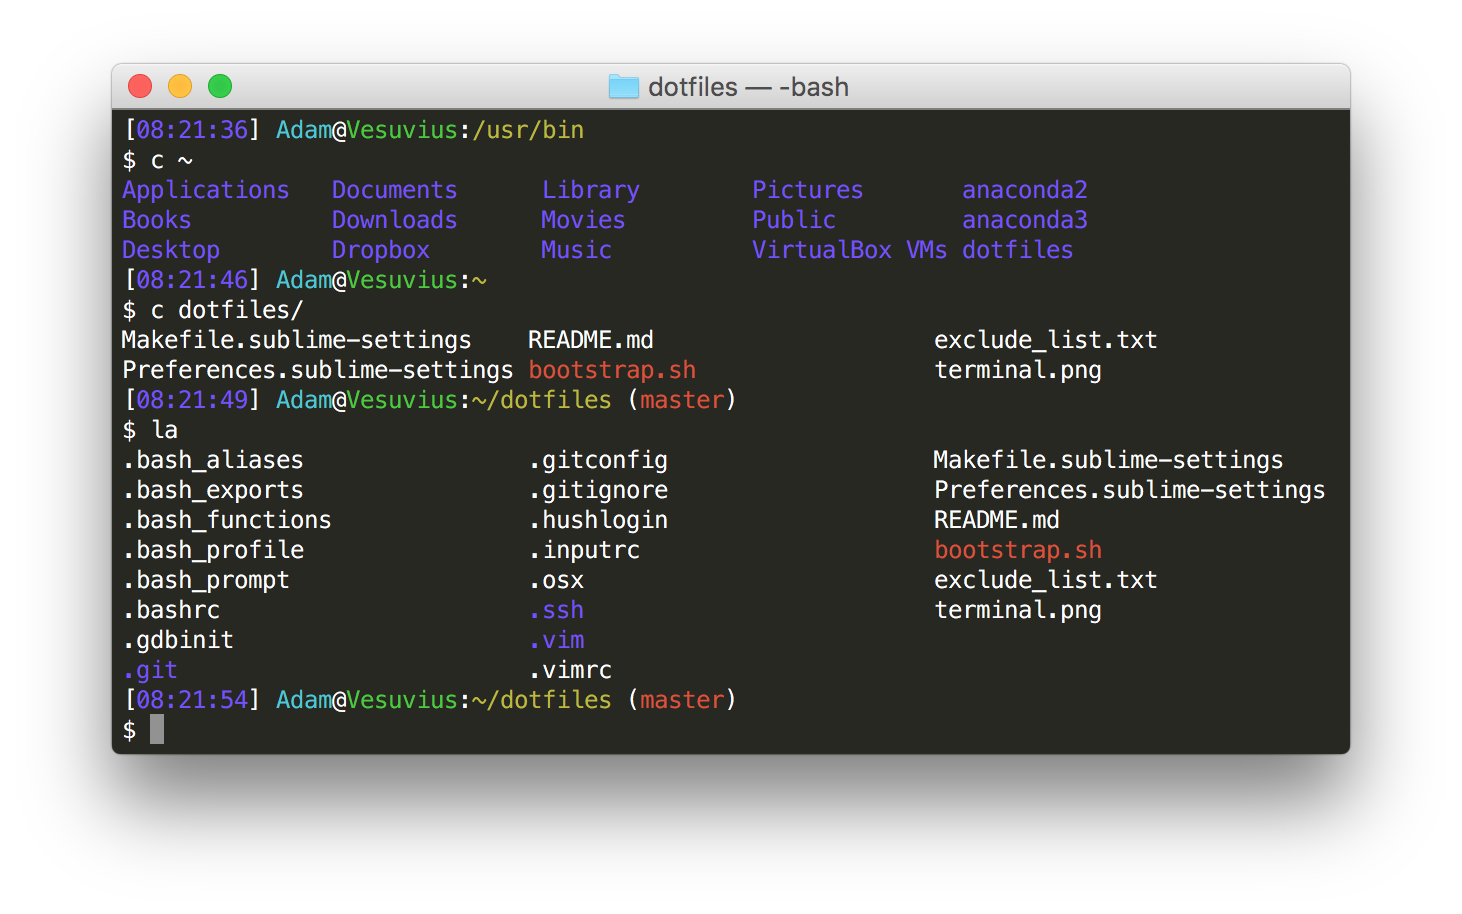
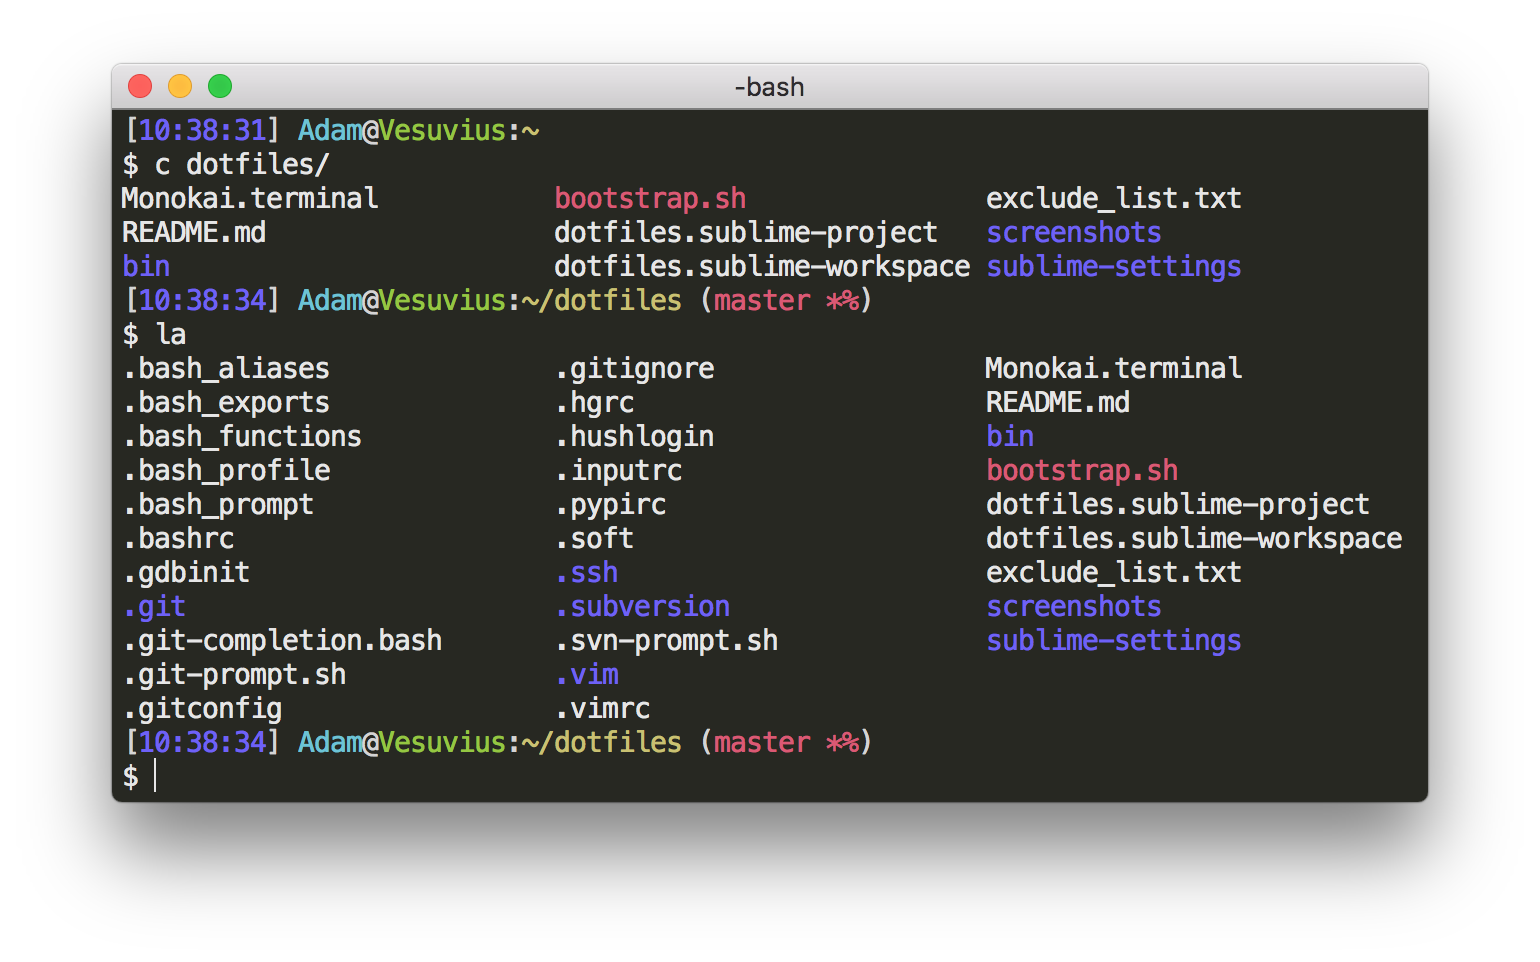
Add macOS Terminal profile for Monokai

Changed region(s): [[0.0616, 0.0613, 0.9542, 0.8578]]

diff --git a/README.md b/README.md
@@ -24,17 +24,21 @@ I chose a color scheme called Monokai, originally written by Wimer Hazenberg for
 
 You can clone the repository wherever you want by running:
 
-```bash
-git clone https://github.com/adamjstewart/dotfiles.git
+```console
+$ git clone https://github.com/adamjstewart/dotfiles.git
 ```
 
 Then, all you have to do is source the bootstrap script:
 
-```bash
-source dotfiles/bootstrap.sh
+```console
+$ source dotfiles/bootstrap.sh
 ```
 
 To update your local repository with any changes I've made, just source the bootstrap script again.
+
+### Installing the Terminal profile on macOS
+
+To install the Monokai Terminal profile, go to the Terminal Preferences and click on the Profiles tab. Click the settings gear at the bottom of the profile list and hit Import. Then, navigate to the `Monokai.terminal` file in your cloned repository. Click Default at the bottom of the profile list to set this as your default profile when launching a new terminal.
 
 ## Credits
 
